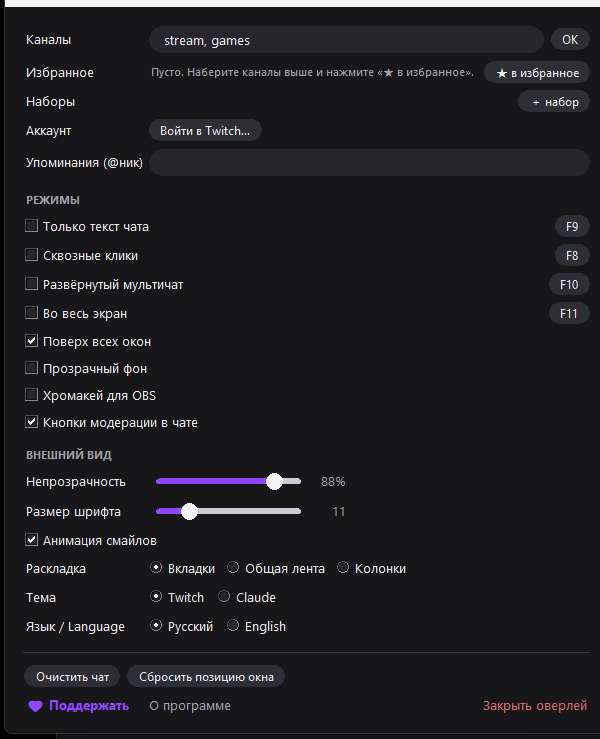
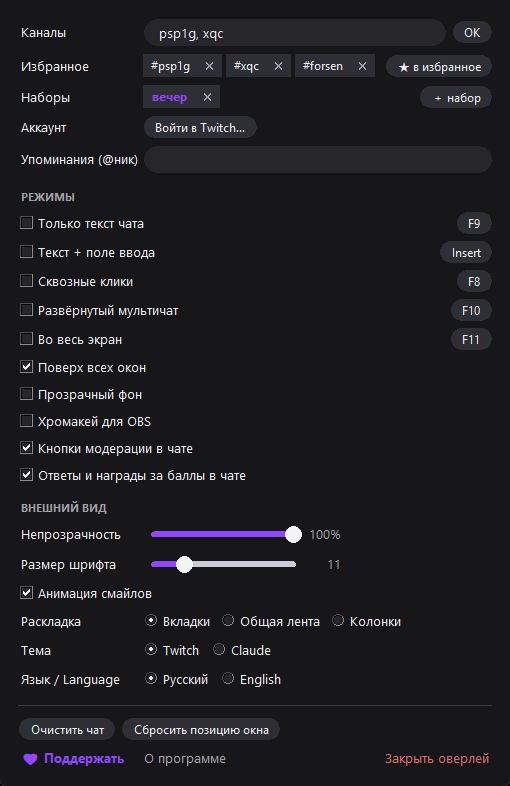
Replies and channel point rewards in the feed
- reply header above replies: "Reply @name: parent text" (name clickable),
  leading @mention of the parent is dropped from the body like on twitch.tv
- channel points redemptions: reward icon on its colored plate, "name
  redeemed <title>" and cost with the channel's points icon; custom rewards
  resolved through anonymous GQL communityPointsSettings (refreshed every
  15 min and on unknown ids, throttled); built-in rewards via msg-id
  (highlighted message gets the purple highlight)
- new toggle "Replies & channel point rewards in chat" (default on)
- palette: reward block background; docs, landing changelog v1.14,
  settings screenshot retaken

diff --git a/docs/index.html b/docs/index.html
@@ -185,7 +185,7 @@
         </a>
         <a class="alt" href="https://github.com/mikolakiyv/twitch-chat-overlay/releases/latest/download/twitch-chat-overlay.zip">версия с исходниками .zip</a>
       </div>
-      <p class="meta"><span id="ver">v1.13.0</span> · 18 МБ · <b>без установки</b> · Windows 10/11 · rus/eng</p>
+      <p class="meta"><span id="ver">v1.14.0</span> · 18 МБ · <b>без установки</b> · Windows 10/11 · rus/eng</p>
     </div>
 
     <div class="scene" aria-hidden="true">
@@ -214,7 +214,7 @@
       <div class="f" style="--c:var(--coral)"><b>Только текст — <kbd>F9</kbd></b><p>Остаётся один текст чата. <kbd>Insert</kbd> — текст + поле ввода. <kbd>F8</kbd> — клики сквозь окно.</p></div>
       <div class="f" style="--c:var(--accent)"><b>Мультичат — <kbd>F10</kbd></b><p>Разворачивается в колонки — только каналы, которые сейчас в эфире (●).</p></div>
       <div class="f" style="--c:var(--pink)"><b>Смайлы Twitch и 7TV</b><p>Анимированные двигаются. Пикер с поиском. В РФ работают без VPN.</p></div>
-      <div class="f" style="--c:var(--blue)"><b>Как настоящий чат</b><p>Цвета ников, значки, клик по нику — профиль. Упоминания подсвечиваются.</p></div>
+      <div class="f" style="--c:var(--blue)"><b>Как настоящий чат</b><p>Цвета ников, значки, клик по нику — профиль. Ответы «↩ Ответ @ник» и награды за баллы — как на сайте.</p></div>
       <div class="f" style="--c:var(--green)"><b>Отправка и анонсы</b><p>Вошли через Twitch — пишете прямо из оверлея. Мегафон шлёт анонс.</p></div>
       <div class="f" style="--c:var(--coral)"><b>Модерация в ленте</b><p>Бан, таймаут, варн, удалить — кнопки у сообщений там, где вы модер.</p></div>
       <div class="f" style="--c:var(--pink)"><b>Избранное и наборы</b><p>Частые каналы и наборы «вечер», «турниры» подключаются одним кликом.</p></div>
@@ -226,10 +226,10 @@
     <h2>Что <em>нового</em></h2>
     <div class="how">
       <ol style="list-style:none; margin-left:0">
+        <li><b>v1.14</b> — ответы «↩ Ответ @ник: …» и награды за баллы канала в ленте</li>
         <li><b>v1.13</b> — F10 открывает только каналы в эфире (●)</li>
         <li><b>v1.12</b> — Insert: прозрачный чат с полем ввода; F9 совсем чистый</li>
         <li><b>v1.11</b> — сворачивание, F11 во весь экран, 7TV быстрее</li>
-        <li><b>v1.10</b> — мультичат по F10, пикер смайлов</li>
       </ol>
       <p class="warn">Полная история — в <a href="https://github.com/mikolakiyv/twitch-chat-overlay/releases" style="color:var(--accent)">релизах на GitHub</a>.</p>
     </div>

diff --git a/README.md b/README.md
@@ -187,6 +187,13 @@ Twitch, не отправляется. Выйти: меню → «Выйти».
   шрифт Inter или Roobert — программа подхватит его автоматически).
 - Несколько каналов одной лентой, отправка сообщений после входа,
   подсветка упоминаний.
+- **Ответы как на Twitch**: над ответом — строка «↩ Ответ @ник: исходное
+  сообщение» (ник кликабельный), а «@ник» в начале ответа не дублируется.
+- **Награды за баллы канала**: над сообщением — иконка награды, «ник
+  забирает награду «название»» и цена со значком баллов канала. Работают и
+  встроенные награды («Выделить сообщение» — с фиолетовой подсветкой,
+  «Увеличенный смайл», «Эффект сообщения»). Логин не нужен. Отключается
+  в настройках («Ответы и награды за баллы в чате»).
 - Уведомления о сабах/рейдах.
 - Автопереподключение при обрыве связи.
 - Если прокрутить чат вверх — автопрокрутка ставится на паузу, вниз — снова едет сама.
